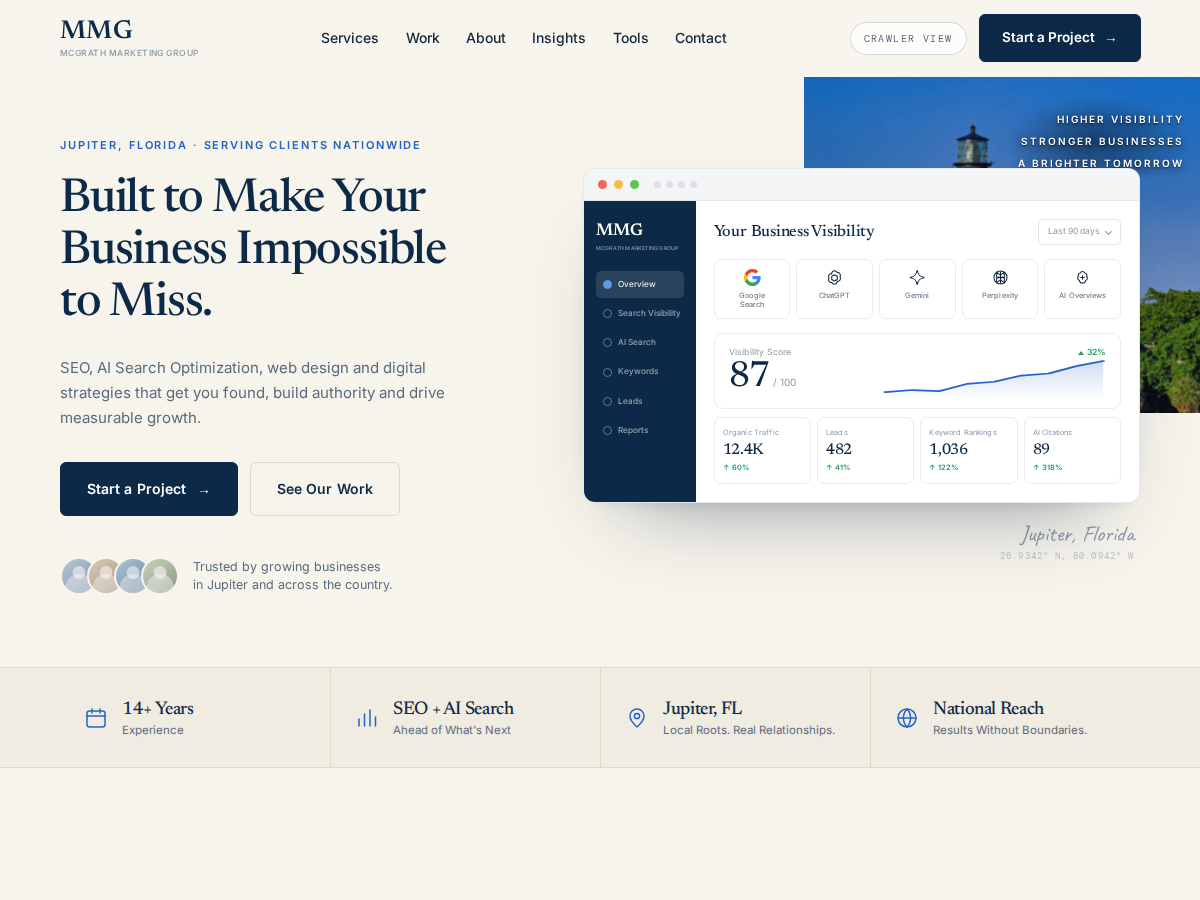
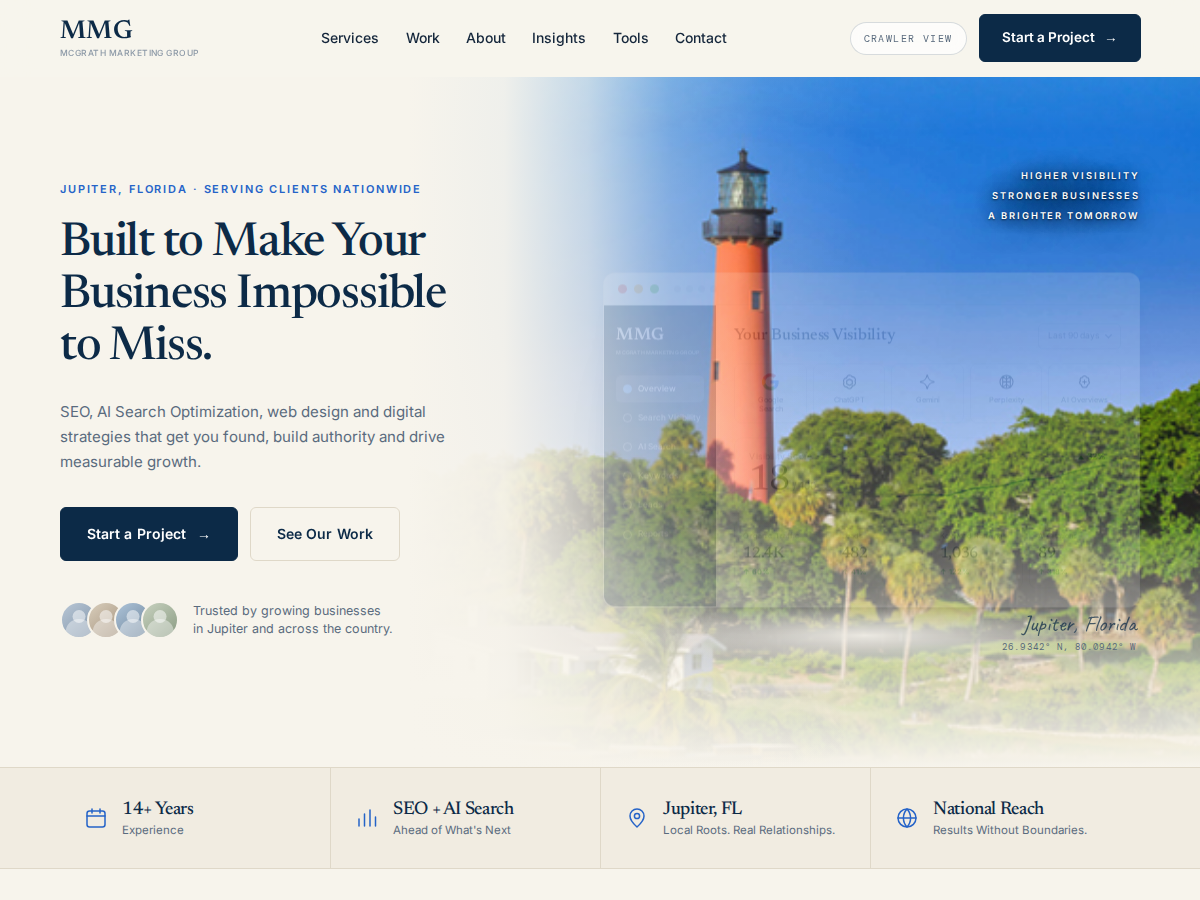
Rebuild the hero around the photograph instead of around a panel
The photograph was boxed into a small panel in the corner, which meant an
aggressive crop, a 150% zoom to keep the light clear of the overlay words, and
a lighthouse that read as a smudge. The panel was the problem, so it is gone.

The photograph is now the ground the whole hero stands on. It fills the
section, bleeds off the top, right and bottom, and is feathered back into the
paper with two gradient passes: one reclaiming the left so the headline keeps a
clean, high-contrast field, one dissolving the floor of the section into the
stat strip below it. No hard edges anywhere.

That let the crop relax back to plain cover — no zoom, so the image is as sharp
as its source allows — and it puts the light in open sky above the dashboard,
which now reads as floating over water rather than pasted beside a picture. The
horizontal falloff is tuned to finish before the light rather than washing
across it, and a little saturation and contrast go back in to offset the
upscale.

All the mockup's elements stay and keep their places: kicker, headline,
paragraph, both buttons, the trust row, the three lines top right, the
dashboard, and the script signature with its coordinates. The signature sat on
the treeline and vanished into it, so it carries a soft disc of paper behind
it now.

Narrow screens give the photo no room to be a backdrop, so below 980px the
paper takes most of it back and it reads as a tint behind the type, with the
[…]

diff --git a/themes/mcgrath-chrome/style.css b/themes/mcgrath-chrome/style.css
@@ -198,21 +198,56 @@ body.crawl .vmode{background:var(--navy);color:var(--cream);border-color:var(--n
 
 /* =====================================================================
    4. HERO
+   The photograph is the ground the hero stands on, not a panel pasted into
+   a corner. It bleeds off three edges and is feathered back into the paper,
+   so the headline keeps a clean field and the dashboard floats over water.
    ===================================================================== */
-/* no overflow clip here: the photo panel runs up past the header to the top
-   of the page, and the panel does its own clipping. */
-.hero{position:relative;padding-block:clamp(38px,5vw,64px) clamp(48px,6vw,86px);}
+.hero{
+  position:relative;isolation:isolate;
+  min-height:clamp(540px,58vw,690px);display:flex;align-items:center;
+  padding-block:clamp(40px,5vw,68px) clamp(56px,7vw,100px);
+}
+
+.heroPhoto{position:absolute;inset:0;overflow:hidden;z-index:0;}
+.heroPhoto .ph{position:absolute;inset:0;filter:saturate(1.08) contrast(1.05);}
+.heroPhoto .ph .grade{display:none;}   /* the veil below does that job instead */
+
+/* Two passes: the paper reclaiming the left, and the floor of the section
+   dissolving into the strip beneath it. */
+.heroPhoto .veil{
+  position:absolute;inset:0;
+  background:
+    linear-gradient(90deg,
+      var(--cream) 0%,
+      var(--cream) 34%,
+      rgba(247,244,236,.96) 42%,
+      rgba(247,244,236,.74) 49%,
+      rgba(247,244,236,.36) 56%,
+      rgba(247,244,236,.10) 64%,
+      rgba(247,244,236,0) 72%,
+      rgba(247,244,236,0) 100%),
+    linear-gradient(180deg,
+      rgba(247,244,236,.14) 0%,
+      rgba(247,244,236,.02) 8%,
+      rgba(247,244,236,0) 34%,
+      rgba(247,244,236,.14) 64%,
+      rgba(247,244,236,.76) 88%,
+      var(--cream) 100%);
+}
+
 .heroIn{
-  max-width:var(--maxw);margin-inline:auto;position:relative;z-index:2;
-  display:grid;grid-template-columns:minmax(0,.92fr) minmax(0,1.08fr);
+  position:relative;z-index:2;width:100%;
+  max-width:calc(var(--maxw) + var(--gut) * 2);margin-inline:auto;
+  display:grid;grid-template-columns:minmax(0,.96fr) minmax(0,1.04fr);
   gap:clamp(26px,4vw,56px);align-items:center;
 }
-.heroCopy{max-width:560px;min-width:0;}
+.heroCopy{max-width:540px;min-width:0;}
 .heroCopy h1{
   font-size:clamp(36px,3.9vw,58px);line-height:1.08;letter-spacing:-.026em;
   margin-top:20px;text-wrap:initial;
 }
-.heroCopy > p{margin-top:24px;font-size:clamp(15px,1.25vw,17.5px);line-height:1.66;color:var(--ink-70);max-width:47ch;}
+.heroCopy > p{margin-top:24px;font-size:clamp(15px,1.25vw,17.5px);line-height:1.66;
+  color:var(--ink-70);max-width:44ch;}
 .heroBtns{display:flex;flex-wrap:wrap;gap:12px;margin-top:32px;}
 
 /* line reveal */
@@ -238,38 +273,26 @@ body.crawl .vmode{background:var(--navy);color:var(--cream);border-color:var(--n
 .faces i:nth-child(4){background-image:linear-gradient(140deg,#C8D2C0,#8A9B82);}
 .trust p{font-size:12.5px;line-height:1.45;color:var(--ink-70);}
 
-/* hero scene : lighthouse plate + dashboard ------------------------- */
+/* ---- right column: the three lines, the dashboard, the signature ---- */
 .heroScene{position:relative;min-width:0;}
-/* The panel begins just under the header, as the mockup has it, so nothing in
-   the photograph is lost behind the bar. */
-.heroPlate{
-  position:absolute;top:0;right:calc(-1 * var(--gut));
-  width:min(46%,590px);height:clamp(300px,28vw,396px);
-  border-bottom-left-radius:150px 104px;overflow:hidden;z-index:0;
+
+.tag{
+  display:block;margin:0 0 clamp(16px,2.2vw,26px) auto;width:max-content;max-width:100%;
+  text-align:right;position:relative;
+  font-family:var(--body);font-weight:600;font-size:clamp(9px,.78vw,10.5px);
+  letter-spacing:.2em;text-transform:uppercase;color:#fff;line-height:2.15;
+  text-shadow:0 1px 2px rgba(6,22,40,.8),0 2px 12px rgba(6,22,40,.68),0 6px 34px rgba(6,22,40,.5);
 }
-.heroPlate .ph{transition:transform .1s linear;will-change:transform;}
-.heroPlate .ph{position:absolute;inset:0;}
-.heroPlate .tag{
-  position:absolute;right:calc(var(--gut) + 16px);left:auto;
-  top:clamp(20px,2.6vw,36px);z-index:3;text-align:right;
-  font-family:var(--body);font-weight:600;font-size:10px;letter-spacing:.2em;text-transform:uppercase;
-  color:#fff;line-height:2.2;
-  text-shadow:0 1px 2px rgba(6,22,40,.75),0 2px 10px rgba(6,22,40,.65),0 4px 30px rgba(6,22,40,.5);
-}
-/* a soft scrim so the three lines stay legible whatever photo goes in */
-.heroPlate .tag::before{
-  content:"";position:absolute;right:-30px;top:-24px;width:calc(100% + 70px);height:calc(100% + 50px);
+.tag::before{
+  content:"";position:absolute;right:-34px;top:-26px;width:calc(100% + 78px);height:calc(100% + 54px);
   border-radius:50%;z-index:-1;
-  background:radial-gradient(closest-side,rgba(8,26,48,.4),rgba(8,26,48,0) 78%);
+  background:radial-gradient(closest-side,rgba(8,26,48,.32),rgba(8,26,48,0) 76%);
 }
-/* below the widest layout the panel steps back so the menu never lands on it */
-@media(max-width:1360px){.heroPlate{width:min(38%,470px);}}
-@media(max-width:980px){.heroPlate{display:none;}}
 
 .dash{
   position:relative;z-index:2;background:#fff;border-radius:12px;
   border:1px solid rgba(12,42,71,.1);
-  box-shadow:0 40px 80px -46px rgba(10,35,64,.52),0 6px 18px -12px rgba(10,35,64,.18);
+  box-shadow:0 46px 90px -44px rgba(8,28,54,.62),0 10px 26px -14px rgba(8,28,54,.24);
   overflow:hidden;
 }
 .dashBar{
@@ -338,16 +361,35 @@ body.crawl .vmode{background:var(--navy);color:var(--cream);border-color:var(--n
 .tile .td{font-size:7.4px;color:#1E9E5A;font-weight:600;display:block;margin-top:4px;}
 
 .heroSig{
-  display:flex;flex-direction:column;align-items:flex-end;gap:2px;margin-top:18px;
-  padding-right:6px;text-align:right;
+  position:relative;display:flex;flex-direction:column;align-items:flex-end;gap:3px;
+  margin-top:clamp(16px,2vw,24px);padding-right:4px;text-align:right;
 }
-.heroSig .script{font-size:clamp(19px,1.9vw,25px);color:var(--ink-45);}
-.heroSig .mono{font-size:9px;letter-spacing:.12em;color:var(--ink-25);}
+/* a breath of paper behind it, or the treeline swallows both lines */
+.heroSig::before{
+  content:"";position:absolute;right:-26px;top:-16px;width:calc(100% + 64px);height:calc(100% + 38px);
+  border-radius:50%;z-index:-1;
+  background:radial-gradient(closest-side,rgba(247,244,236,.94),rgba(247,244,236,0) 78%);
+}
+.heroSig .script{font-size:clamp(19px,1.9vw,25px);color:var(--navy);opacity:.72;}
+.heroSig .mono{font-size:9px;letter-spacing:.12em;color:var(--ink-70);}
 
 @media(max-width:980px){
+  .hero{min-height:0;display:block;}
   .heroIn{grid-template-columns:minmax(0,1fr);gap:38px;}
   .heroCopy{max-width:none;}
-  .heroSig{align-items:flex-start;text-align:left;}
+  /* narrow screens give the photo no room to be a backdrop, so the paper takes
+     most of it back and it reads as a tint behind the type */
+  .heroPhoto .veil{
+    background:linear-gradient(180deg,
+      rgba(247,244,236,.80) 0%,
+      rgba(247,244,236,.94) 22%,
+      var(--cream) 46%,
+      var(--cream) 100%);
+  }
+  .tag{margin-inline:0;text-align:left;color:var(--navy);text-shadow:none;}
+  .tag::before{display:none;}
+  .heroSig{align-items:flex-start;text-align:left;padding-right:0;}
+  .heroSig .script{text-shadow:none;}
 }
 @media(max-width:560px){
   .dashBody{grid-template-columns:1fr;}
@@ -798,7 +840,12 @@ body.crawl .dash,body.crawl .lapSite,body.crawl .floatCard{background:#0A120D;bo
 body.crawl .dashBar,body.crawl .lapBar{background:#081009;border-color:#14291C;}
 body.crawl .dashNav,body.crawl .lapHero{background:#081009;}
 body.crawl .plat,body.crawl .tile,body.crawl .score{border-color:#14291C;}
-body.crawl .heroPlate,body.crawl .rootsPic .ph{filter:grayscale(1) brightness(.4) sepia(1) hue-rotate(75deg) saturate(3);}
+body.crawl .heroPhoto .ph,body.crawl .rootsPic .ph{filter:grayscale(1) brightness(.4) sepia(1) hue-rotate(75deg) saturate(3);}
+body.crawl .heroPhoto .veil{background:linear-gradient(90deg,#06080A 0%,#06080A 34%,rgba(6,8,10,.86) 52%,rgba(6,8,10,.5) 74%,rgba(6,8,10,.25) 100%),linear-gradient(180deg,rgba(6,8,10,.5) 0%,rgba(6,8,10,0) 40%,rgba(6,8,10,.8) 88%,#06080A 100%);}
+body.crawl .tag{color:#9FF3B8;text-shadow:none;}
+body.crawl .heroSig::before{display:none;}
+body.crawl .heroSig .script{color:#9FF3B8;opacity:1;}
+body.crawl .heroSig .mono{color:#5FBE80;}
 body.crawl .faces i{background:#0A120D;border-color:#06080A;}
 body.crawl .faces i::before,body.crawl .faces i::after{background:#14291C;}
 body.crawl .btn{background:#0A120D;color:#9FF3B8;border-color:#1F5236;}

diff --git a/themes/mcgrath-chrome/assets/js/chrome.js b/themes/mcgrath-chrome/assets/js/chrome.js
@@ -147,15 +147,6 @@
     });
   }
 
-  /* ---------------- hero photo drift ---------------- */
-  var plate=document.querySelector('.heroPlate .ph');
-  if(plate && !reduce){
-    window.addEventListener('scroll',function(){
-      var y=Math.min(window.scrollY,700);
-      plate.style.transform='translateY('+(y*0.07)+'px) scale('+(1+y*0.00012)+')';
-    },{passive:true});
-  }
-
   /* ---------------- magnetic buttons ---------------- */
   if(window.matchMedia('(pointer:fine)').matches && !reduce){
     [].slice.call(document.querySelectorAll('[data-mag]')).forEach(function(el){

diff --git a/themes/mcgrath-chrome/front-page.php b/themes/mcgrath-chrome/front-page.php
@@ -14,17 +14,16 @@ get_header();
 ?>
 
 <!-- ============================ HERO ============================ -->
-<section class="hero gut" id="hero">
-	<div class="heroPlate" aria-hidden="true">
-		<?php mcg_plate( 'hero', '', '100% 0%', 'auto 150%' ); ?>
-		<span class="tag">
-			<?php echo esc_html( mcg_opt( 'mcg_plate_l1', 'Higher Visibility' ) ); ?><br>
-			<?php echo esc_html( mcg_opt( 'mcg_plate_l2', 'Stronger Businesses' ) ); ?><br>
-			<?php echo esc_html( mcg_opt( 'mcg_plate_l3', 'A Brighter Tomorrow' ) ); ?>
-		</span>
+<section class="hero" id="hero">
+	<!-- The photograph is the hero. It bleeds off the top, right and bottom and
+	     dissolves leftward into the paper, so the headline sits on clean ground
+	     and the dashboard floats over open water. -->
+	<div class="heroPhoto" aria-hidden="true">
+		<?php mcg_plate( 'hero', '', '58% 4%' ); ?>
+		<span class="veil"></span>
 	</div>
 
-	<div class="heroIn">
+	<div class="heroIn gut">
 		<div class="heroCopy">
 			<span class="eyebrow"><?php echo esc_html( mcg_opt( 'mcg_hero_kicker', 'Jupiter, Florida · Serving Clients Nationwide' ) ); ?></span>
 
@@ -52,6 +51,12 @@ get_header();
 		</div>
 
 		<div class="heroScene">
+			<span class="tag" aria-hidden="true">
+				<?php echo esc_html( mcg_opt( 'mcg_plate_l1', 'Higher Visibility' ) ); ?><br>
+				<?php echo esc_html( mcg_opt( 'mcg_plate_l2', 'Stronger Businesses' ) ); ?><br>
+				<?php echo esc_html( mcg_opt( 'mcg_plate_l3', 'A Brighter Tomorrow' ) ); ?>
+			</span>
+
 			<!-- The dashboard is drawn in markup, not shipped as an image, so it
 			     stays sharp on every screen and readable to a crawler. -->
 			<div class="dash rv" role="img"
